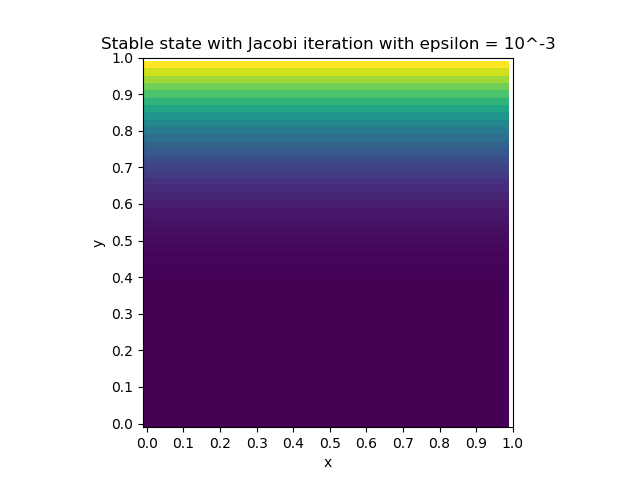
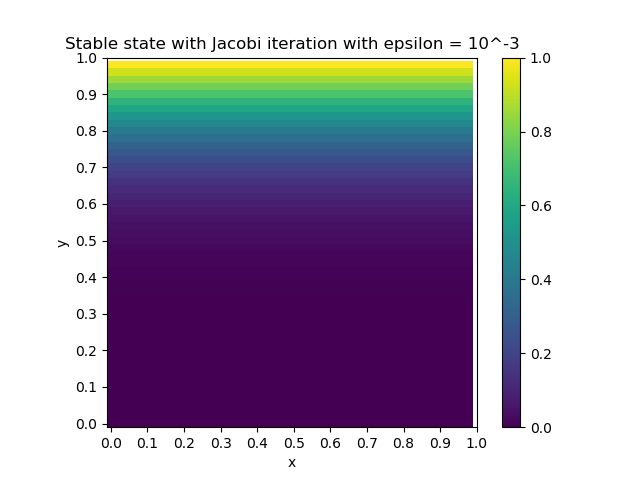
Updates on exercise g

diff --git a/set1/jacobiIt.py b/set1/jacobiIt.py
@@ -5,13 +5,14 @@ from scipy.special import erfc
 import math
 
 class Grid:
-    def __init__(self, N, Epsilon, Max_Iterations):
+    def __init__(self, N, Epsilon, Max_Iterations, form):
         self.MaxIt = Max_Iterations         # stop condition
         self.N = N                          # Grid size
         self.Iterations = 0                 # No. of current iteration
         self.Epsilon = Epsilon              # Epsilon (when do we accept change to be neglected.)
         self.grid = np.zeros((N, N))        # Making grid of n x n
         self.const = 1/4.0                  # Constant value for jacobi Iterations
+        self.form  = form
 
     # The grid will update untill certain criteria are met.
     def run(self):
@@ -22,7 +23,7 @@ class Grid:
             Stable = True           # Unless determined otherwise
             for i in range(self.N):
                 for j in range(self.N):
-                    value = self.get_boundry_values(i, j)
+                    value = self.get_boundry_values(i, j, tempgrid)
                     tempgrid[i,j] = value
                     if abs(value - self.grid[i,j]) > self.Epsilon:  # Means not yet stable
                         Stable = False
@@ -30,34 +31,49 @@ class Grid:
             self.grid = tempgrid
         return self.grid, self.Iterations
 
-    def get_boundry_values(self, i, j):
-        if(j == 0 or j == self.N-1):
-            return j/(self.N-1)
-        elif(i == 0):
-            return self.grid[0, j] + self.const*(self.grid[1, j] +
-                    self.grid[N-1, j] + self.grid[0, j+1] + self.grid[0, j-1] - 4*self.grid[0,j])
-        elif(i == self.N-1):
-            return self.grid[i, j] + self.const*(self.grid[0, j] +
-                    self.grid[i-1, j] + self.grid[i, j+1] + self.grid[i, j-1] - 4*self.grid[i,j])
-        else:
-            return self.grid[i, j] + self.const*(self.grid[i+1, j] +
-                    self.grid[i-1, j] + self.grid[i, j+1] + self.grid[i, j-1] - 4*self.grid[i,j])
+    def get_boundry_values(self, i, j, tempgrid):
+        # The values when we do a jacobi iteration
+        if self.form == "Gauss":
+            if(j == 0 or j == self.N-1):
+                return j/(self.N-1)
+            elif(i == 0):
+                return self.grid[0, j] + self.const*(self.grid[1, j] +
+                        self.grid[N-1, j] + self.grid[0, j+1] + tempgrid[0, j-1] - 4*self.grid[0,j])
+            elif(i == self.N-1):
+                return self.grid[i, j] + self.const*(self.grid[1, j] +
+                        tempgrid[i-1, j] + self.grid[i, j+1] + tempgrid[i, j-1] - 4*self.grid[i,j])
+            else:
+                return self.grid[i, j] + self.const*(self.grid[i+1, j] +
+                        tempgrid[i-1, j] + self.grid[i, j+1] + tempgrid[i, j-1] - 4*self.grid[i,j])
 
-if __name__ == '__main__':
-    # Initial conditions
-    N = 50
-    Max_Iterations = 1000000000
-
-    # Grid creation
-    Jacobi10_3 = Grid(N, 10**(-3), Max_Iterations)
-    Jacobi10_5 = Grid(N, 10**(-3.5), Max_Iterations)
-    Jacobi10_7 = Grid(N, 10**(-4), Max_Iterations)
+        # The values when we do Gauss iterations
+        elif self.form == "Jac":
+            if(j == 0 or j == self.N-1):
+                return j/(self.N-1)
+            
+            elif(i == 0):
+                return self.grid[0, j] + self.const*(self.grid[1, j] +
+                        self.grid[N-1, j] + self.grid[0, j+1] + self.grid[0, j-1] - 4*self.grid[0,j])
+            elif(i == self.N-1):
+                return self.grid[i, j] + self.const*(self.grid[1, j] +
+                        self.grid[i-1, j] + self.grid[i, j+1] + self.grid[i, j-1] - 4*self.grid[i,j])
+            else:
+                return self.grid[i, j] + self.const*(self.grid[i+1, j] +
+                        self.grid[i-1, j] + self.grid[i, j+1] + self.grid[i, j-1] - 4*self.grid[i,j])
+            
+# The visuals of the jacobi iteration.
+def J():
+    # Grid creation for jacobi
+    Jacobi10_3 = Grid(N, 10**(-3), Max_Iterations, "Jac")
+    Jacobi10_5 = Grid(N, 10**(-3.5), Max_Iterations, "Jac")
+    Jacobi10_7 = Grid(N, 10**(-4), Max_Iterations, "Jac")
 
     # Run the model
     Equilibrium3 = Jacobi10_3.run()
     Equilibrium5 = Jacobi10_5.run()
     Equilibrium7 = Jacobi10_7.run()
 
+    print(Equilibrium3[1])
     # Iterations it took to obtain epsilon.
     epsilon10_3 = Equilibrium3[0][0]   # One vertical line representing changes in y
     epsilon10_5 = Equilibrium5[0][0]
@@ -68,6 +84,7 @@ if __name__ == '__main__':
 
     # Show the change in y
     yticks = [i/50 for i in range(50)]
+    plt.title("Jacobi Iteration")
     plt.plot(yticks, epsilon10_3, label = "Epsilon = 10^-3")
     plt.plot(yticks, epsilon10_5, label = "Epsilon = 10^-35")
     plt.plot(yticks, epsilon10_7, label = "Epsilon = 10^-4")
@@ -82,5 +99,61 @@ if __name__ == '__main__':
     plt.yticks(x, xticks)
     plt.ylabel('y')
     plt.xlabel('x')
-    plt.legend()
+    plt.colorbar()
     plt.show()
+
+
+# The visuals of the Gauss iteration.
+def G():
+    # Grid creation for jacobi
+    Gauss10_3 = Grid(N, 10**(-3), Max_Iterations, "Gauss")
+    Gauss10_5 = Grid(N, 10**(-3.5), Max_Iterations, "Gauss")
+    Gauss10_7 = Grid(N, 10**(-4), Max_Iterations, "Gauss")
+
+    # Run the model
+    Equilibrium3 = Gauss10_3.run()
+    Equilibrium5 = Gauss10_5.run()
+    Equilibrium7 = Gauss10_7.run()
+
+    print(Equilibrium3[1])
+    # Iterations it took to obtain epsilon.
+    epsilon10_3 = Equilibrium3[0][0]   # One vertical line representing changes in y
+    epsilon10_5 = Equilibrium5[0][0]
+    epsilon10_7 = Equilibrium7[0][0]
+
+    x = [0, 5, 10, 15, 20, 25, 30, 35, 40, 45, 50]
+    xticks = [i/float(N) for i in x]
+
+    # Show the change in y
+    yticks = [i/50 for i in range(50)]
+    plt.title("Gauss Iteration")
+    plt.plot(yticks, epsilon10_3, label = "Epsilon = 10^-3")
+    plt.plot(yticks, epsilon10_5, label = "Epsilon = 10^-35")
+    plt.plot(yticks, epsilon10_7, label = "Epsilon = 10^-4")
+    plt.legend()
+    plt.xlabel("y")
+    plt.ylabel("Concentration c")
+    plt.show()
+
+    plt.imshow(np.rot90(Equilibrium3[0],3), origin = 'lower')
+    plt.title("Stable state Gauss iteration with epsilon = 10^-3")
+    plt.xticks(x, xticks)
+    plt.yticks(x, xticks)
+    plt.ylabel('y')
+    plt.xlabel('x')
+    plt.colorbar()
+    plt.show()
+
+
+if __name__ == '__main__':
+    # Initial conditions
+    N = 50
+    Max_Iterations = 1000000000
+    Jacobi = True
+    Gauss = True
+    
+    if Jacobi:
+        J()
+
+    if Gauss:
+        G()
